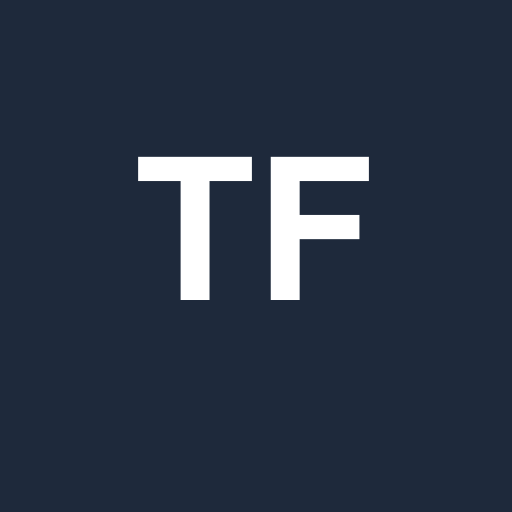
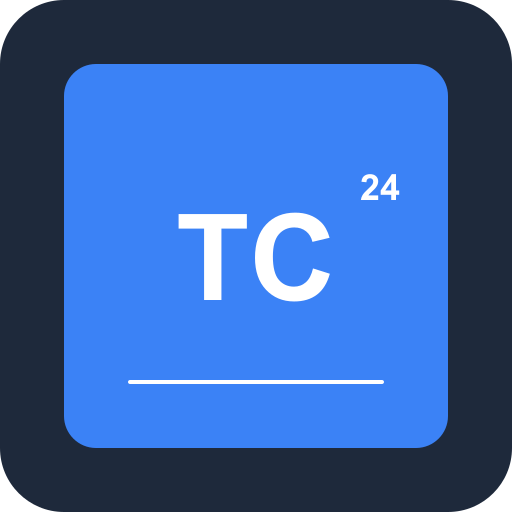
fix: автосброс тултипа через 3сек (onMouseMove), иконка TF→TC
Тултип: используем onMouseMove Recharts + interval + active={false} для
надёжного автоскрытия через 3 секунды на мобильном.
Иконка: исправлен icon.svg (TF→TC), перегенерированы все PNG.

diff --git a/src/components/charts/CashlessShareTrend.tsx b/src/components/charts/CashlessShareTrend.tsx
@@ -1,4 +1,4 @@
-import React, { useMemo, useState, useRef, useCallback } from 'react';
+import React, { useMemo, useState, useRef, useEffect } from 'react';
 import { Card, CardContent, CardHeader, CardTitle } from '@/components/ui/card';
 import { Badge } from '@/components/ui/badge';
 import {
@@ -57,20 +57,17 @@ const LINE_COLORS = {
 export function CashlessShareTrend({ transactions, className }: ClientMixTrendProps) {
   const isMobile = useIsMobile();
   const [tooltipDismissed, setTooltipDismissed] = useState(false);
-  const dismissTimer = useRef<number>();
+  const lastInteraction = useRef<number>(0);
 
-  const handleTouchStart = useCallback(() => {
+  useEffect(() => {
     if (!isMobile) return;
-    clearTimeout(dismissTimer.current);
-    setTooltipDismissed(false);
-  }, [isMobile]);
-
-  const handleTouchEnd = useCallback(() => {
-    if (!isMobile) return;
-    clearTimeout(dismissTimer.current);
-    dismissTimer.current = window.setTimeout(() => {
-      setTooltipDismissed(true);
-    }, 3000);
+    const interval = setInterval(() => {
+      if (lastInteraction.current > 0 && Date.now() - lastInteraction.current > 3000) {
+        setTooltipDismissed(true);
+        lastInteraction.current = 0;
+      }
+    }, 500);
+    return () => clearInterval(interval);
   }, [isMobile]);
 
   const { chartData, avgCorpShare, trendType, trendPct } = useMemo(() => {
@@ -167,7 +164,6 @@ export function CashlessShareTrend({ transactions, className }: ClientMixTrendPr
         </div>
       </CardHeader>
       <CardContent className={isMobile ? 'px-2 pb-3' : ''}>
-        <div onTouchStart={handleTouchStart} onTouchEnd={handleTouchEnd}>
         <ResponsiveContainer width="100%" height={isMobile ? 250 : 300}>
           <ComposedChart
             data={chartData}
@@ -176,6 +172,7 @@ export function CashlessShareTrend({ transactions, className }: ClientMixTrendPr
                 ? { top: 5, right: 5, left: 0, bottom: 5 }
                 : { top: 20, right: 20, left: 20, bottom: 20 }
             }
+            onMouseMove={isMobile ? () => { lastInteraction.current = Date.now(); setTooltipDismissed(false); } : undefined}
           >
             <CartesianGrid strokeDasharray="3 3" stroke="hsl(var(--border))" />
             <XAxis
@@ -196,9 +193,9 @@ export function CashlessShareTrend({ transactions, className }: ClientMixTrendPr
               ticks={[0, 25, 50, 75, 100]}
             />
             <Tooltip
+              {...(isMobile && tooltipDismissed ? { active: false } : {})}
               content={({ active, payload }) => {
                 if (!active || !payload || payload.length === 0) return null;
-                if (isMobile && tooltipDismissed) return null;
                 const d = payload[0]?.payload as DayPoint;
                 if (!d) return null;
                 return (
@@ -279,7 +276,6 @@ export function CashlessShareTrend({ transactions, className }: ClientMixTrendPr
             />
           </ComposedChart>
         </ResponsiveContainer>
-        </div>
         {/* Легенда */}
         <div className={`flex items-center justify-center flex-wrap gap-x-4 gap-y-1 ${isMobile ? 'mt-1' : 'mt-3'}`}>
           <div className="flex items-center gap-1.5">
